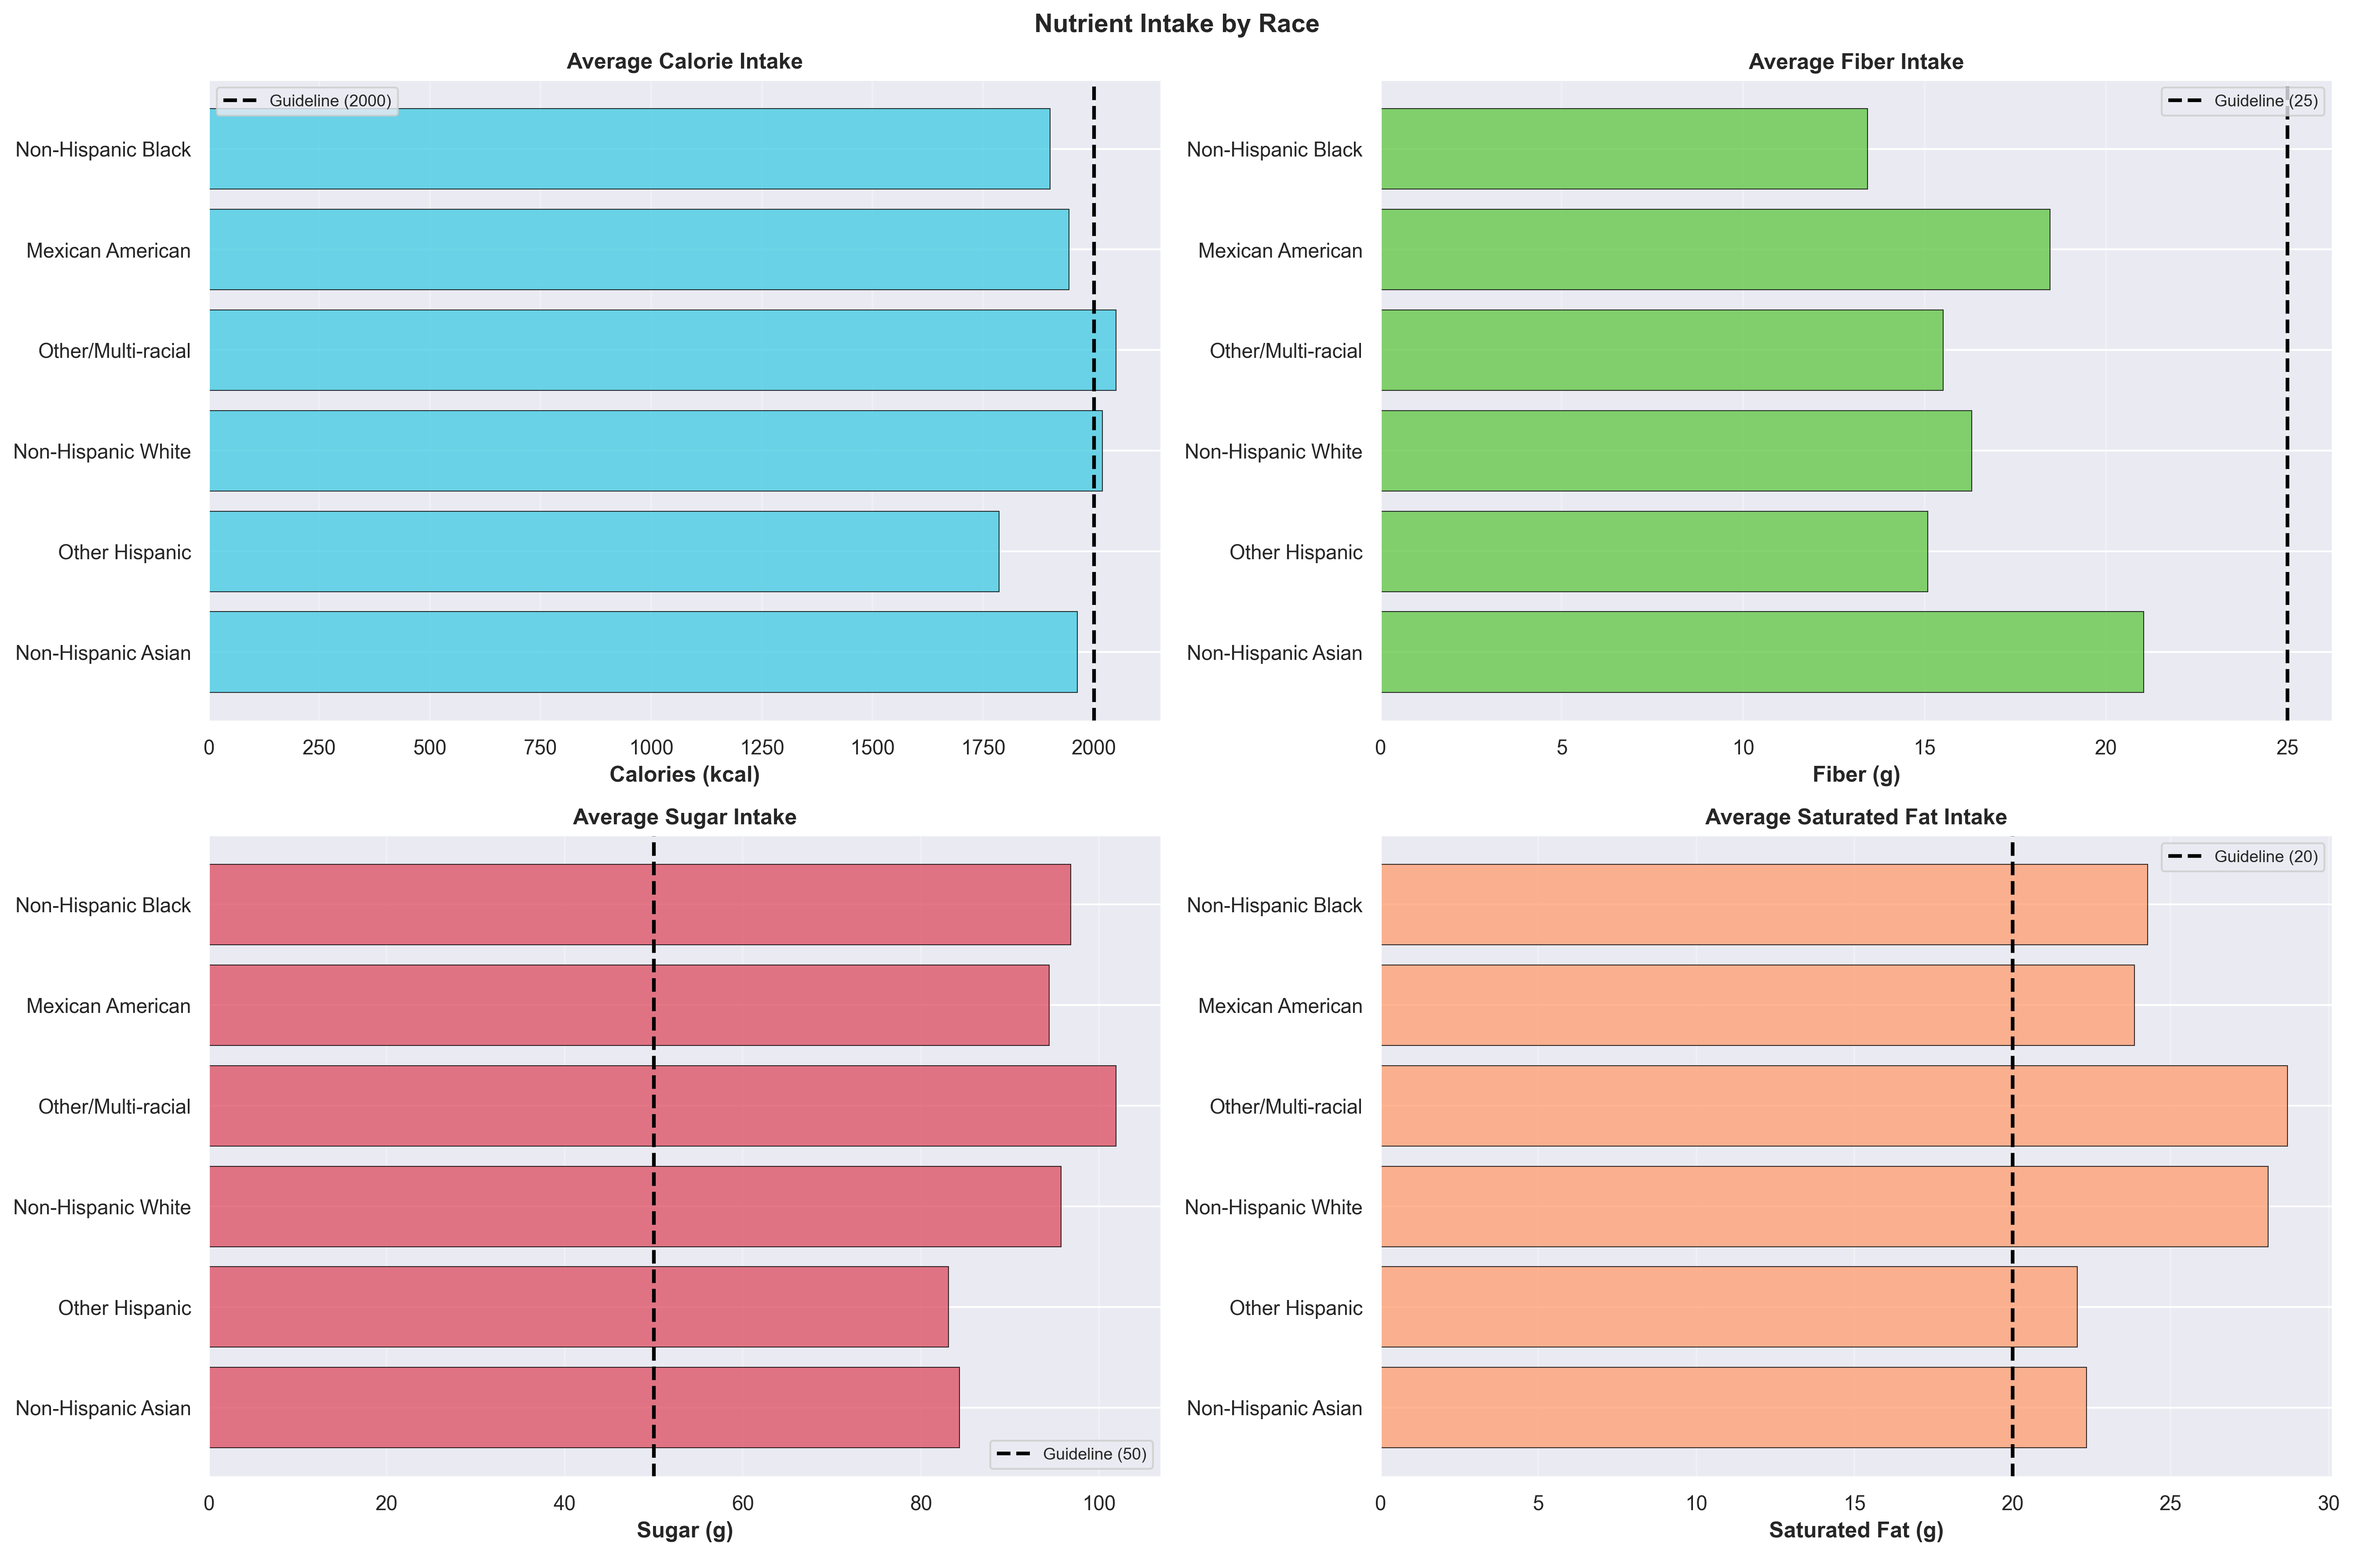
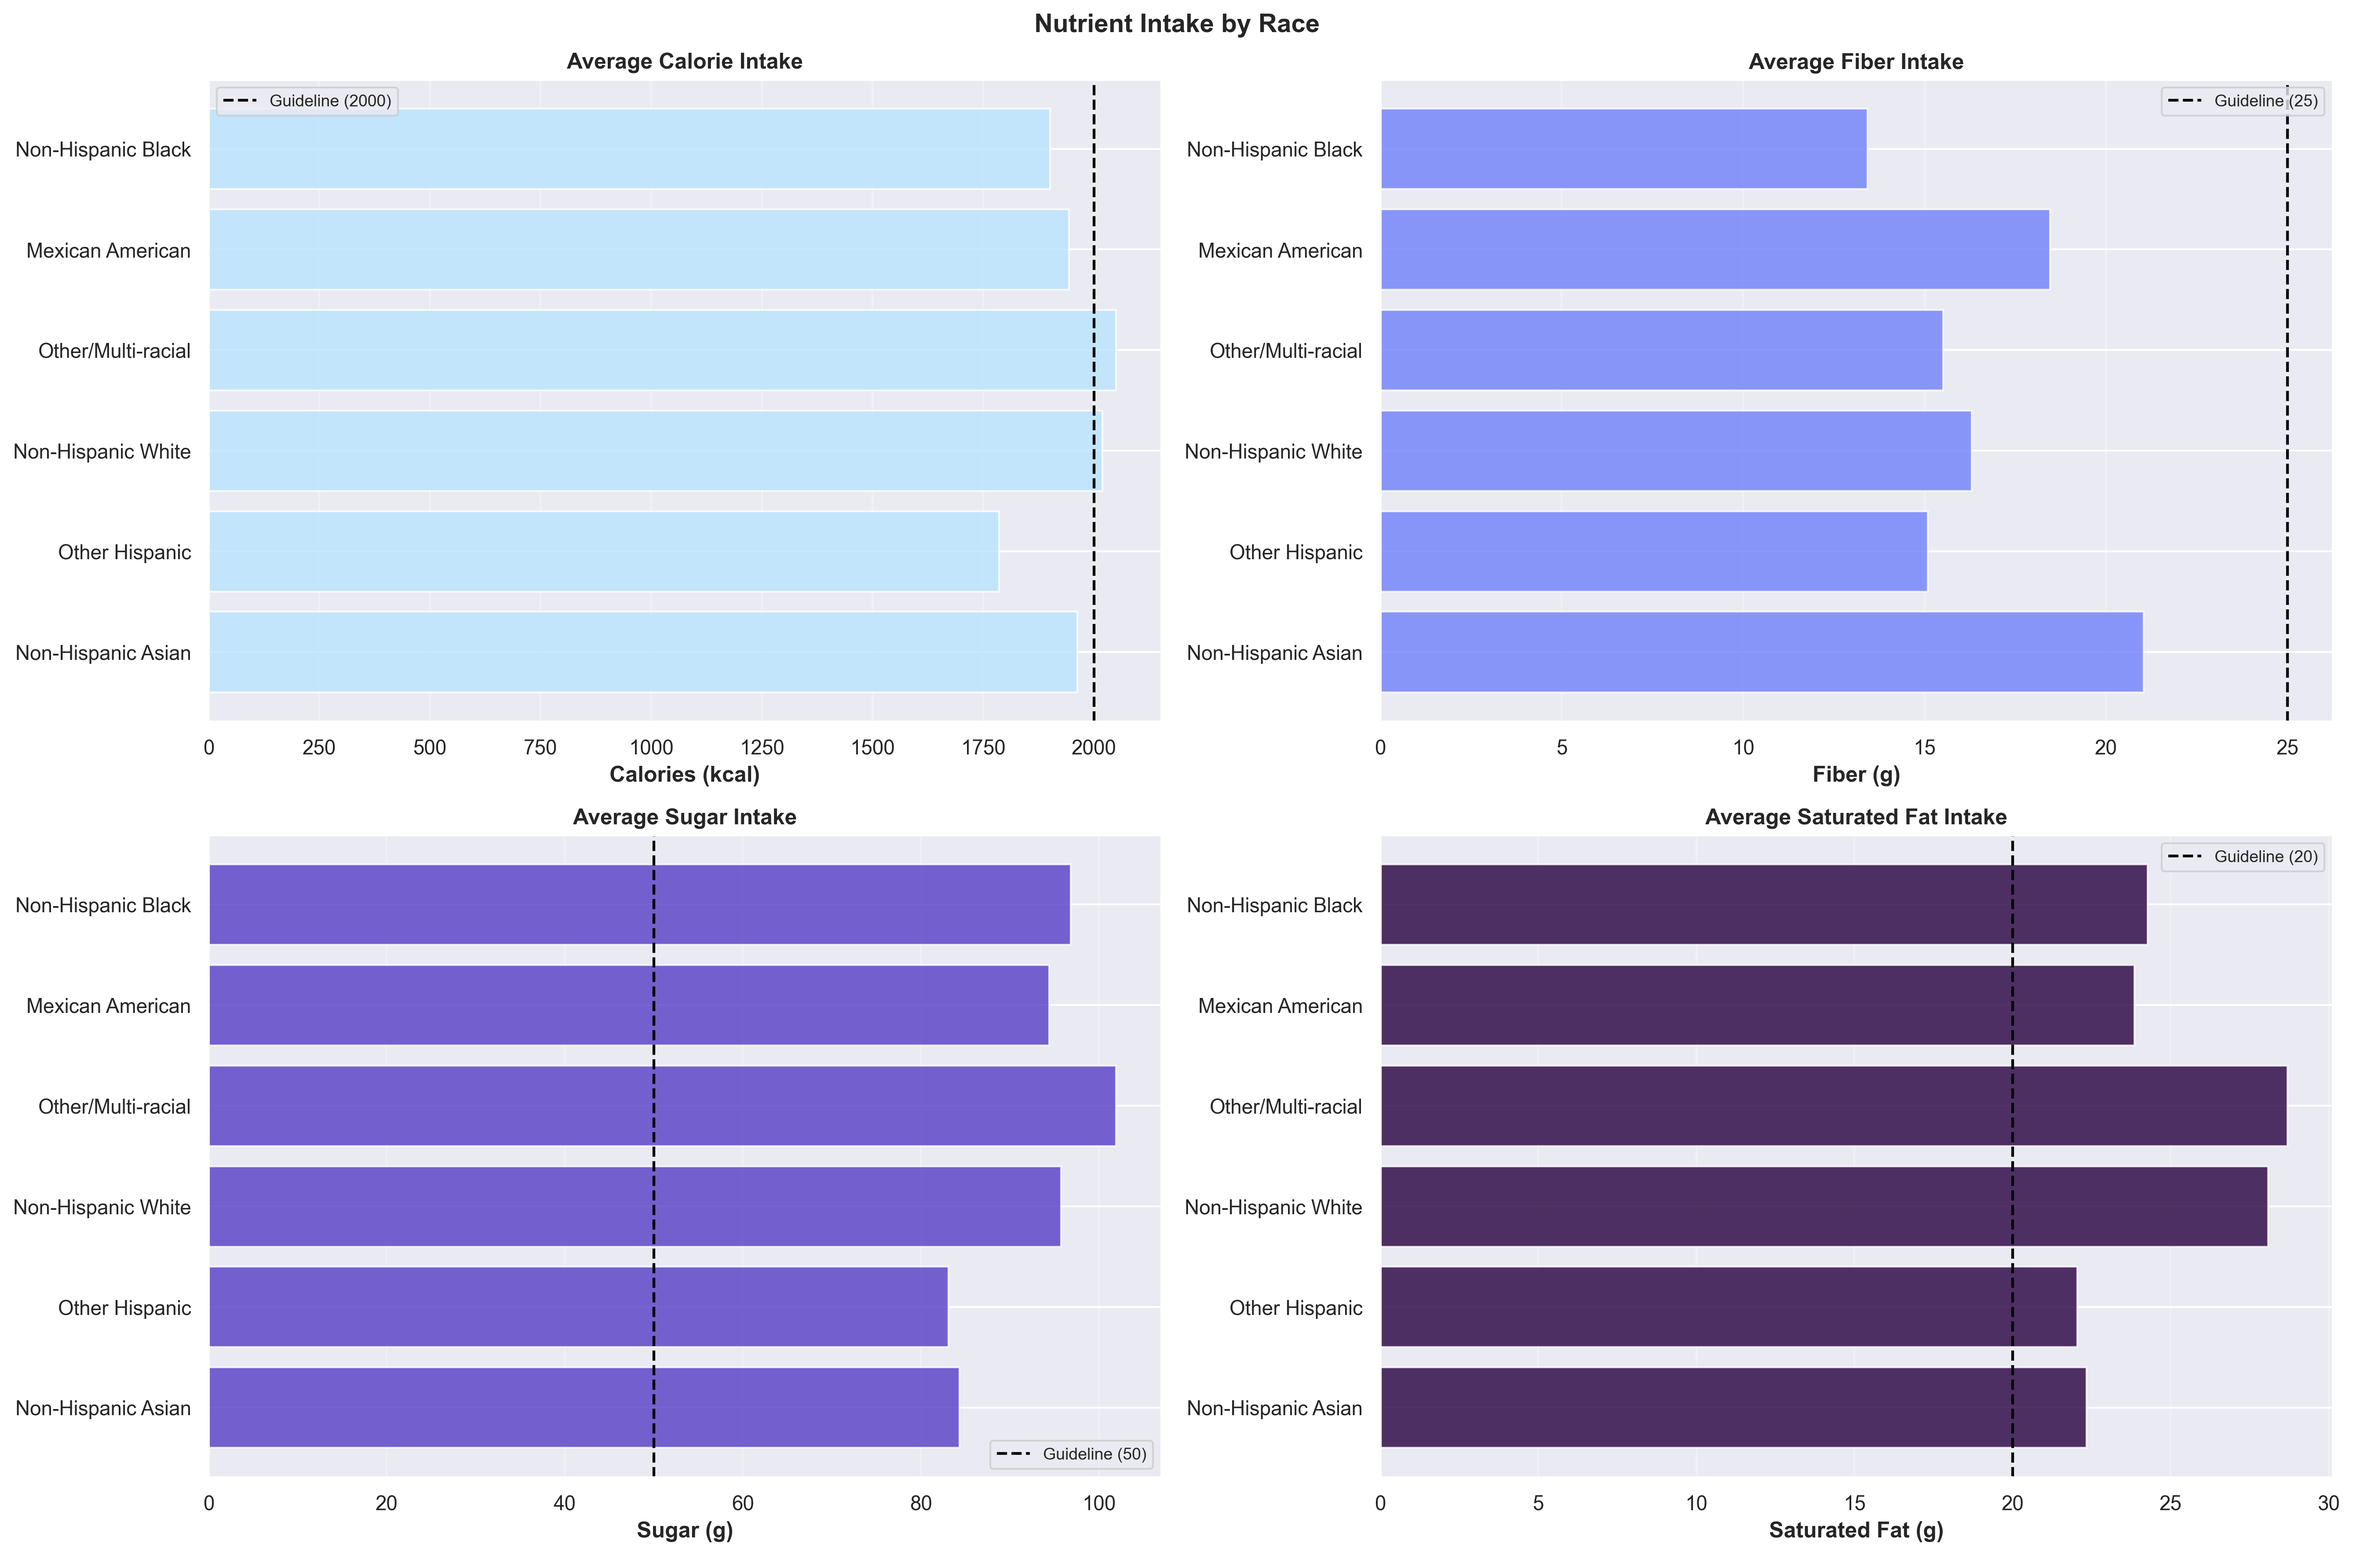
cosmetic edits to latest BMI/race visuals

diff --git a/NHANES_BMI_Demographic_Analysis.py b/NHANES_BMI_Demographic_Analysis.py
@@ -187,7 +187,7 @@ def plot_obesity_rate_by_race(df):
 
     fig, ax = plt.subplots(figsize = (10, 6))
     ax.barh(race_order, obesity_by_race.values, alpha = 0.8, edgecolor = 'black', linewidth = 0.5)
-    ax.axvline(x = obesity_by_race.mean(), color = 'black', linewidth = 2, linestyle = '--', label = f'Average ({obesity_by_race.mean():.1f}%)')
+    ax.axvline(x = obesity_by_race.mean(), color = 'black', linestyle = '--', label = f'Average ({obesity_by_race.mean():.1f}%)')
     ax.set_xlabel('Obesity Rate (%)', fontweight = 'bold')
     ax.set_title('Obesity Rate by Race', fontweight = 'bold')
     ax.legend(fontsize = 9)
@@ -231,14 +231,14 @@ def plot_nutrient_intake_by_race(df):
     titles     = ['Average Calorie Intake', 'Average Fiber Intake', 'Average Sugar Intake', 'Average Saturated Fat Intake']
     xlabels    = ['Calories (kcal)', 'Fiber (g)', 'Sugar (g)', 'Saturated Fat (g)']
     guidelines = [2000, 25, 50, 20]
-    colors     = ['#49cce3', '#66c94b', '#de5568', '#ffa277']
+    colors     = ["#b8e4ff", "#7080fa", "#563cc6", "#27003F"]
 
     fig, axes = plt.subplots(2, 2, figsize = (18, 12))
 
     for ax, nutrient, title, xlabel, guideline, color in zip(axes.flatten(), nutrients, titles, xlabels, guidelines, colors):
         means = df.groupby('Race')[nutrient].mean().reindex(race_order)
-        ax.barh(race_order, means.values, color = color, alpha = 0.8, edgecolor = 'black', linewidth = 0.5)
-        ax.axvline(x = guideline, color = 'black', linewidth = 2, linestyle = '--', label = f'Guideline ({guideline})')
+        ax.barh(race_order, means.values, color = color, alpha = 0.8, linewidth = 0.5)
+        ax.axvline(x = guideline, color = 'black', linestyle = '--', label = f'Guideline ({guideline})')
         ax.set_xlabel(xlabel, fontweight = 'bold')
         ax.set_title(title, fontweight = 'bold')
         ax.legend(fontsize = 9)
@@ -258,8 +258,8 @@ def plot_bmi_by_calorie_quartile_and_race(df):
     pivot = df.groupby(['Race', 'Calorie_Quartile'], observed = True)['BMXBMI'].mean().unstack()
     
     fig, ax = plt.subplots(figsize = (12, 6))
-    pivot.plot(kind = 'bar', ax = ax, colormap = 'coolwarm', alpha = 0.8, edgecolor = 'black', linewidth=0.5)
-    ax.axhline(y = 30, color = 'black', linewidth=2, linestyle = '--', label = 'Obesity threshold')
+    pivot.plot(kind = 'bar', ax = ax, colormap = 'coolwarm', alpha = 0.8, edgecolor = 'black', linewidth = 0.5)
+    ax.axhline(y = 30, color = 'black', linestyle = '--', label = 'Obesity threshold')
     ax.set_xlabel('Race', fontweight = 'bold')
     ax.set_ylabel('Mean BMI', fontweight = 'bold')
     ax.set_title('Mean BMI by Race and Calorie Intake Quartile', fontweight = 'bold')
